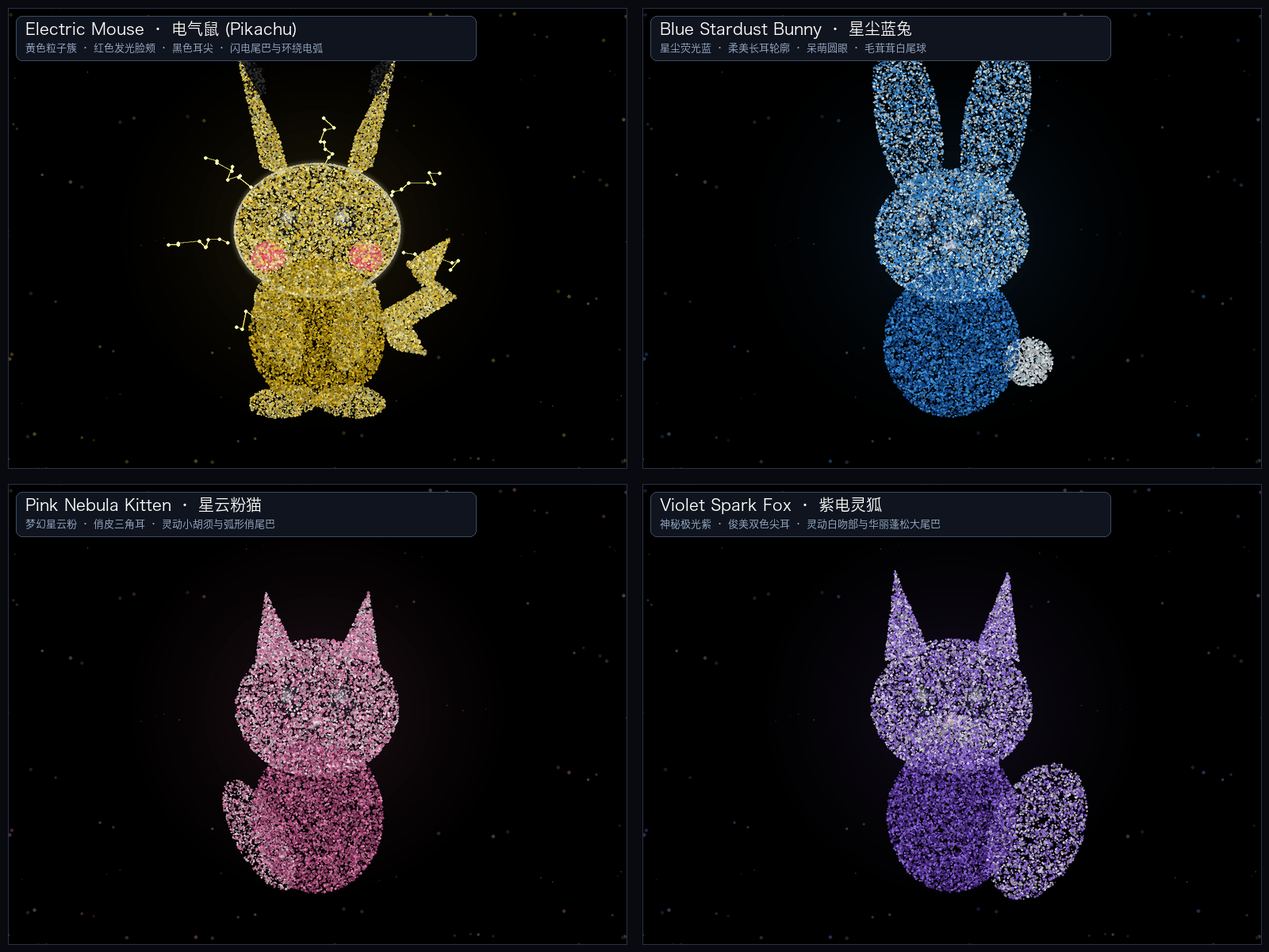
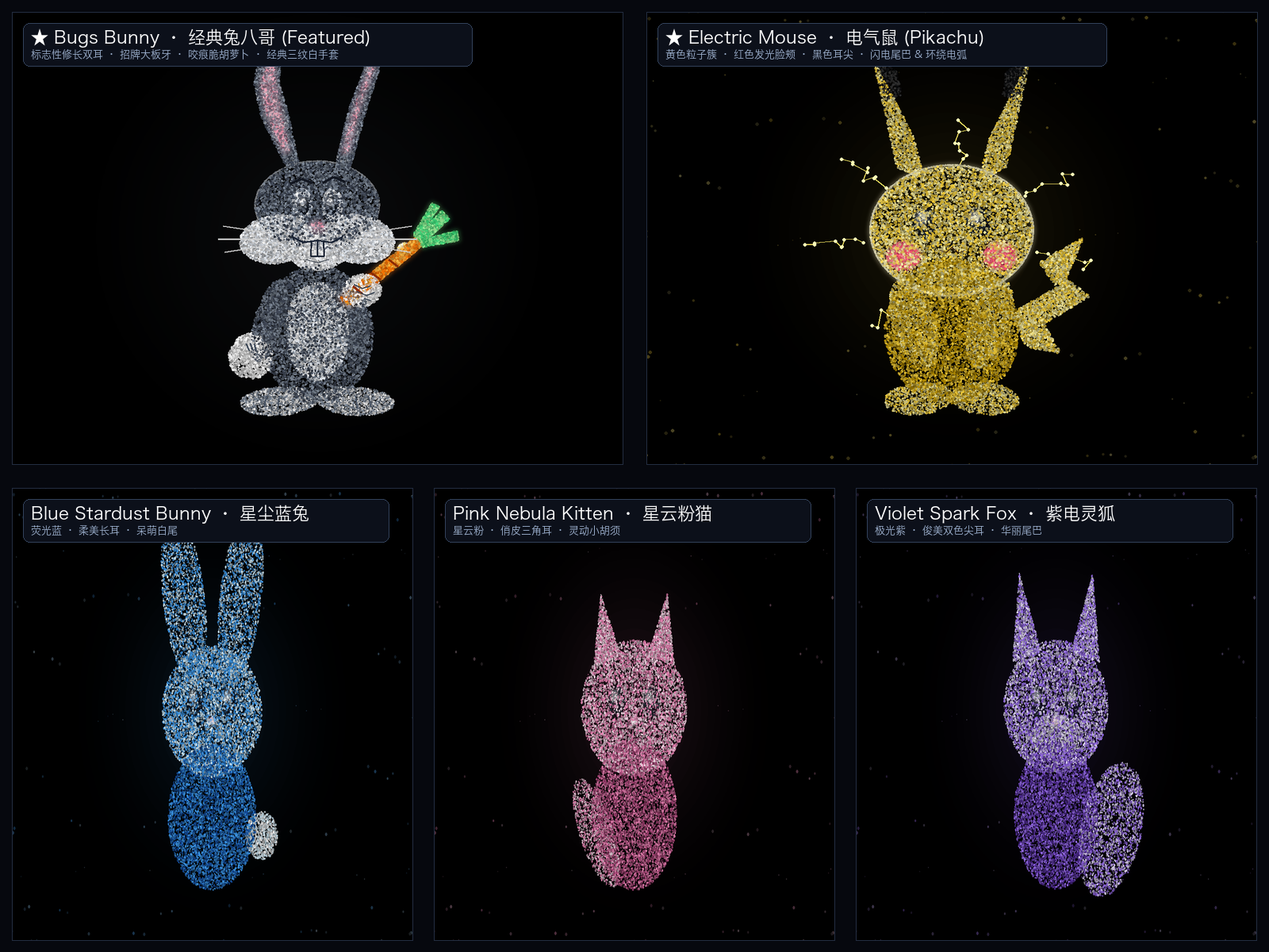
feat(mascot): add Bugs Bunny 3D particle model with signature ears, buck teeth and carrot

diff --git a/particle_mascot_studio.html b/particle_mascot_studio.html
@@ -40,26 +40,151 @@ input[type=range]{width:100%;accent-color:#ffd84a;cursor:pointer}.hint{font-size
 }
 </style>
 </head>
-<body><div id="app"><button id="mobileToggle" class="mobile-toggle-btn">⚙ Controls</button><div class="stage"><canvas id="c" width="1200" height="900"></canvas><div class="badge">PARTICLE MASCOT / HTML CANVAS</div><div class="title"><h1 id="sceneName">Electric Mouse</h1><p>拖动倾斜 · 鼠标视差 · 点击触发粒子散开</p></div></div><aside class="panel"><button id="panelClose" class="panel-close-btn">✕ Close</button><div style="margin-bottom:14px; display:flex; justify-content:space-between; align-items:center;"><a href="index.html" style="text-decoration:none; display:inline-flex; align-items:center; gap:6px; padding:7px 12px; background:rgba(255,100,150,0.16); border:1px solid rgba(255,100,150,0.5); color:#ff9ebb; border-radius:8px; font-weight:600; font-size:12px; transition:all 0.2s;" onmouseover="this.style.background='rgba(255,100,150,0.3)'" onmouseout="this.style.background='rgba(255,100,150,0.16)'">🌹 3D Flower Lab</a><span style="font-size:11px; color:#8d99af;">Hub Portal</span></div><h2>Particle Mascot Studio</h2><div class="group"><div class="label">角色预设</div><div class="grid"><button class="preset active" data-preset="pikachu">电气鼠</button><button class="preset" data-preset="bunny">蓝色兔子</button><button class="preset" data-preset="kitten">粉色小猫</button><button class="preset" data-preset="fox">紫色小狐</button></div></div><div class="group"><div class="label">动态参数</div><div class="row"><span>粒子密度</span><input id="density" type="range" min="0.5" max="1.7" step="0.05" value="1.05"><span class="val" id="densityV">1.05</span></div><div class="row"><span>漂移强度</span><input id="flow" type="range" min="0" max="2" step="0.05" value="0.65"><span class="val" id="flowV">0.65</span></div><div class="row"><span>光晕</span><input id="glow" type="range" min="0" max="2.5" step="0.05" value="1.25"><span class="val" id="glowV">1.25</span></div><div class="row"><span>电弧/能量</span><input id="energy" type="range" min="0" max="2" step="0.05" value="1.15"><span class="val" id="energyV">1.15</span></div><div class="row"><span>呼吸速度</span><input id="speed" type="range" min="0.2" max="2" step="0.05" value="0.75"><span class="val" id="speedV">0.75</span></div></div><div class="group"><div class="label">画面</div><div class="actions"><button id="burst">粒子散开一次</button><button id="reset">恢复视角</button><button id="pause">暂停</button><button id="clean">纯画面</button><button class="wide" id="save">保存当前 PNG</button></div></div><div class="group"><div class="label">说明</div><div class="hint">纯 HTML + Canvas 代码生成，不依赖图片素材。电气鼠预设使用黄色粒子、红色脸颊、黑色耳尖、闪电尾巴和电弧效果。可继续扩展你自己的原创 IP。</div></div></aside></div>
+<body><div id="app"><button id="mobileToggle" class="mobile-toggle-btn">⚙ Controls</button><div class="stage"><canvas id="c" width="1200" height="900"></canvas><div class="badge">PARTICLE MASCOT / HTML CANVAS</div><div class="title"><h1 id="sceneName">Bugs Bunny · 经典兔八哥</h1><p>拖动倾斜 · 鼠标视差 · 点击触发粒子散开</p></div></div><aside class="panel"><button id="panelClose" class="panel-close-btn">✕ Close</button><div style="margin-bottom:14px; display:flex; justify-content:space-between; align-items:center;"><a href="index.html" style="text-decoration:none; display:inline-flex; align-items:center; gap:6px; padding:7px 12px; background:rgba(255,100,150,0.16); border:1px solid rgba(255,100,150,0.5); color:#ff9ebb; border-radius:8px; font-weight:600; font-size:12px; transition:all 0.2s;" onmouseover="this.style.background='rgba(255,100,150,0.3)'" onmouseout="this.style.background='rgba(255,100,150,0.16)'">🌹 3D Flower Lab</a><span style="font-size:11px; color:#8d99af;">Hub Portal</span></div><h2>Particle Mascot Studio</h2><div class="group"><div class="label">角色预设</div><div class="grid"><button class="preset active wide" data-preset="bugs" style="background:rgba(255,106,0,0.16); border-color:rgba(255,106,0,0.55); font-weight:600; color:#ffb38a;">🥕 兔八哥 (Bugs Bunny)</button><button class="preset" data-preset="pikachu">⚡ 电气鼠</button><button class="preset" data-preset="bunny">🐰 蓝色兔子</button><button class="preset" data-preset="kitten">🐱 粉色小猫</button><button class="preset" data-preset="fox">🦊 紫色小狐</button></div></div><div class="group"><div class="label">动态参数</div><div class="row"><span>粒子密度</span><input id="density" type="range" min="0.5" max="1.7" step="0.05" value="1.05"><span class="val" id="densityV">1.05</span></div><div class="row"><span>漂移强度</span><input id="flow" type="range" min="0" max="2" step="0.05" value="0.65"><span class="val" id="flowV">0.65</span></div><div class="row"><span>光晕</span><input id="glow" type="range" min="0" max="2.5" step="0.05" value="1.25"><span class="val" id="glowV">1.25</span></div><div class="row"><span>电弧/能量</span><input id="energy" type="range" min="0" max="2" step="0.05" value="1.15"><span class="val" id="energyV">1.15</span></div><div class="row"><span>呼吸速度</span><input id="speed" type="range" min="0.2" max="2" step="0.05" value="0.75"><span class="val" id="speedV">0.75</span></div></div><div class="group"><div class="label">画面</div><div class="actions"><button id="burst">粒子散开一次</button><button id="reset">恢复视角</button><button id="pause">暂停</button><button id="clean">纯画面</button><button class="wide" id="save">保存当前 PNG</button></div></div><div class="group"><div class="label">说明</div><div class="hint">纯 HTML + Canvas 代码生成，不依赖任何外部图片与 3D 库。内置经典兔八哥（长双耳、大板牙、脆胡萝卜、白手套）、皮卡丘、星尘蓝兔、星云粉猫与紫电灵狐。完全支持 3D 视差交互与移动端自适应。</div></div></aside></div>
 <script>
 const canvas=document.getElementById('c'),ctx=canvas.getContext('2d',{alpha:false}),W=canvas.width,H=canvas.height;
-const state={preset:'pikachu',density:1.05,flow:.65,glow:1.25,energy:1.15,speed:.75,paused:false,clean:false,tiltX:0,tiltY:0,targetTiltX:0,targetTiltY:0,burst:0,t:0};
-const palettes={pikachu:{main:'#ffd83d',light:'#fff4a3',dark:'#c99d00',accent:'#ff4058',eye:'#0f1012',edge:'#fff7c8'},bunny:{main:'#42a6ff',light:'#d8f2ff',dark:'#1759b4',accent:'#9ceaff',eye:'#061529',edge:'#dff7ff'},kitten:{main:'#ff8fc4',light:'#ffe0ef',dark:'#b94a82',accent:'#ffc46b',eye:'#28101f',edge:'#fff0f6'},fox:{main:'#a476ff',light:'#eadfff',dark:'#5c32aa',accent:'#ff8ad8',eye:'#170d2b',edge:'#f5edff'}};
-const names={pikachu:'Electric Mouse',bunny:'Blue Stardust Bunny',kitten:'Pink Nebula Kitten',fox:'Violet Spark Fox'};
+const state={preset:'bugs',density:1.05,flow:.65,glow:1.25,energy:1.15,speed:.75,paused:false,clean:false,tiltX:0,tiltY:0,targetTiltX:0,targetTiltY:0,burst:0,t:0};
+const palettes={
+  bugs:{main:'#8c98a8',light:'#ffffff',dark:'#4a5364',pink:'#ff8da9',pinkLight:'#ffbccc',accent:'#ff6200',eye:'#0e131d',edge:'#e2e8f0',carrot:'#ff6200',carrotLight:'#ffa536',carrotLeaf:'#2cd066',carrotLeafLight:'#8df48b'},
+  pikachu:{main:'#ffd83d',light:'#fff4a3',dark:'#c99d00',accent:'#ff4058',eye:'#0f1012',edge:'#fff7c8'},
+  bunny:{main:'#42a6ff',light:'#d8f2ff',dark:'#1759b4',accent:'#9ceaff',eye:'#061529',edge:'#dff7ff'},
+  kitten:{main:'#ff8fc4',light:'#ffe0ef',dark:'#b94a82',accent:'#ffc46b',eye:'#28101f',edge:'#fff0f6'},
+  fox:{main:'#a476ff',light:'#eadfff',dark:'#5c32aa',accent:'#ff8ad8',eye:'#170d2b',edge:'#f5edff'}
+};
+const names={
+  bugs:'Bugs Bunny · 经典兔八哥 ("What\'s up, Doc?")',
+  pikachu:'Electric Mouse · 电气鼠',
+  bunny:'Blue Stardust Bunny · 星尘蓝兔',
+  kitten:'Pink Nebula Kitten · 星云粉猫',
+  fox:'Violet Spark Fox · 紫电灵狐'
+};
 function rgb(h){h=h.replace('#','');if(h.length===3)h=h.split('').map(x=>x+x).join('');let n=parseInt(h,16);return{r:(n>>16)&255,g:(n>>8)&255,b:n&255}}function mix(a,b,t){a=rgb(a);b=rgb(b);return`rgb(${Math.round(a.r+(b.r-a.r)*t)},${Math.round(a.g+(b.g-a.g)*t)},${Math.round(a.b+(b.b-a.b)*t)})`}function rnd(a,b){return a+Math.random()*(b-a)}
 function ellipsePoint(cx,cy,rx,ry,rot=0){let a=Math.random()*Math.PI*2,r=Math.sqrt(Math.random()),x=Math.cos(a)*rx*r,y=Math.sin(a)*ry*r,c=Math.cos(rot),s=Math.sin(rot);return[cx+x*c-y*s,cy+x*s+y*c]}function ellipseEdge(cx,cy,rx,ry,rot=0){let a=Math.random()*Math.PI*2,x=Math.cos(a)*rx,y=Math.sin(a)*ry,c=Math.cos(rot),s=Math.sin(rot);return[cx+x*c-y*s,cy+x*s+y*c]}
 function polyContains(p,poly){let x=p[0],y=p[1],inside=false;for(let i=0,j=poly.length-1;i<poly.length;j=i++){let xi=poly[i][0],yi=poly[i][1],xj=poly[j][0],yj=poly[j][1],hit=((yi>y)!=(yj>y))&&(x<(xj-xi)*(y-yi)/(yj-yi+1e-9)+xi);if(hit)inside=!inside}return inside}function polyPoint(poly){let minX=Infinity,maxX=-Infinity,minY=Infinity,maxY=-Infinity;for(const[x,y]of poly){minX=Math.min(minX,x);maxX=Math.max(maxX,x);minY=Math.min(minY,y);maxY=Math.max(maxY,y)}for(let k=0;k<500;k++){let p=[rnd(minX,maxX),rnd(minY,maxY)];if(polyContains(p,poly))return p}return poly[0]}
 let particles=[],lines=[];function addCloud(count,sampler,a,b,alpha=.9,zr=[-1,1],size=[.7,2],tag='body'){count=Math.floor(count*state.density);for(let i=0;i<count;i++){let[x,y]=sampler();particles.push({x,y,z:rnd(zr[0],zr[1]),ox:x,oy:y,size:rnd(size[0],size[1]),phase:rnd(0,6.28),color:Math.random()<.5?a:b,alpha:rnd(alpha*.55,alpha),tag})}}function addEdge(count,sampler,color,alpha=.95,size=[.7,1.7],tag='edge'){count=Math.floor(count*state.density);for(let i=0;i<count;i++){let[x,y]=sampler();particles.push({x,y,z:rnd(-.4,.4),ox:x,oy:y,size:rnd(size[0],size[1]),phase:rnd(0,6.28),color,alpha:rnd(alpha*.7,alpha),tag})}}function addLine(points,color,width=1,alpha=.6){lines.push({points,color,width,alpha})}
 function face(p,kind){addCloud(620,()=>ellipsePoint(548,425,24,31),p.eye,'#27303a',.98,[-.1,.1],[.9,1.8],'eye');addCloud(620,()=>ellipsePoint(652,425,24,31),p.eye,'#27303a',.98,[-.1,.1],[.9,1.8],'eye');addCloud(130,()=>ellipsePoint(541,414,7,9),'#fff','#fff',1,[0,0],[1,2],'spark');addCloud(130,()=>ellipsePoint(645,414,7,9),'#fff','#fff',1,[0,0],[1,2],'spark');addCloud(100,()=>ellipsePoint(600,464,8,6),kind==='kitten'?'#ff6ea8':'#ffc4d8','#fff',.95,[0,0],[1,1.7],'nose');addLine([[600,471],[588,480],[577,477]],p.edge,1,.5);addLine([[600,471],[612,480],[623,477]],p.edge,1,.5)}
+function buildBugsBunny(p){
+  // 1. Ears (标志性长耳：左耳俏皮微折，右耳挺拔，带粉嫩内耳)
+  const earL = [[540,310],[490,210],[475,140],[490,80],[515,65],[530,85],[525,140],[545,210],[565,310]];
+  addCloud(2800, ()=>polyPoint(earL), p.main, p.dark, .94, [-.4,.5], [.7,1.9], 'earL');
+  const earInnerL = [[535,280],[500,205],[490,145],[502,100],[515,100],[518,145],[530,205],[545,280]];
+  addCloud(1600, ()=>polyPoint(earInnerL), p.pink, p.pinkLight, .98, [-.2,.3], [.6,1.8], 'earInnerL');
+  addEdge(500, ()=>polyPoint(earL), p.edge, .75, [.6,1.4], 'earEdge');
+
+  const earR = [[635,310],[660,200],[690,120],[705,55],[725,60],[720,120],[695,200],[665,310]];
+  addCloud(2800, ()=>polyPoint(earR), p.main, p.dark, .94, [-.4,.5], [.7,1.9], 'earR');
+  const earInnerR = [[650,280],[672,195],[698,125],[710,85],[715,95],[702,135],[680,200],[660,280]];
+  addCloud(1600, ()=>polyPoint(earInnerR), p.pink, p.pinkLight, .98, [-.2,.3], [.6,1.8], 'earInnerR');
+  addEdge(500, ()=>polyPoint(earR), p.edge, .75, [.6,1.4], 'earEdge');
+
+  // 2. Head dome
+  addCloud(5000, ()=>ellipsePoint(600,385,122,88), p.main, p.dark, .94, [-1,1.1], [.6,2.1], 'head');
+  addEdge(800, ()=>ellipseEdge(600,385,122,88), p.edge, .6, [.6,1.3], 'headEdge');
+
+  // 3. Wide Muzzle & Puffy White Cheeks
+  addCloud(4200, ()=>ellipsePoint(520,452,72,48,-0.15), p.light, '#edf3fb', .98, [-.3,.8], [.65,2.0], 'cheekL');
+  addCloud(4200, ()=>ellipsePoint(680,452,72,48,0.15), p.light, '#edf3fb', .98, [-.3,.8], [.65,2.0], 'cheekR');
+  addCloud(2800, ()=>ellipsePoint(600,474,58,40), p.light, '#f5f8fd', .98, [-.2,.8], [.65,2.0], 'muzzle');
+
+  // 4. Torso, White Belly & Fluffy Tail
+  addCloud(6000, ()=>ellipsePoint(600,642,110,138), p.main, p.dark, .9, [-1.2,1.2], [.6,2.0], 'body');
+  addCloud(4000, ()=>ellipsePoint(600,636,62,98), p.light, '#ebf2fb', .95, [-.4,.9], [.6,1.9], 'belly');
+  addCloud(1000, ()=>ellipsePoint(470,688,44,42), p.light, '#ffffff', .96, [-.3,.4], [.7,2.1], 'tail');
+
+  // 5. Feet
+  addCloud(1400, ()=>ellipsePoint(525,775,76,28,-0.06), p.light, p.main, .92, [-.4,.5], [.7,1.8], 'footL');
+  addCloud(1400, ()=>ellipsePoint(675,775,76,28,0.06), p.light, p.main, .92, [-.4,.5], [.7,1.8], 'footR');
+  addLine([[500,764],[495,786]], '#64748b', 1.6, .7);
+  addLine([[525,764],[522,788]], '#64748b', 1.6, .7);
+  addLine([[675,764],[678,788]], '#64748b', 1.6, .7);
+  addLine([[700,764],[705,786]], '#64748b', 1.6, .7);
+
+  // 6. Left Arm & Glove with 3 stitches
+  addCloud(1500, ()=>ellipsePoint(505,615,28,85,0.28), p.main, p.dark, .9, [-.5,.6], [.7,1.8], 'armL');
+  addCloud(1000, ()=>ellipsePoint(468,668,32,28,-0.1), p.light, '#ffffff', .98, [-.3,.5], [.7,2.0], 'gloveL');
+  addLine([[460,660],[466,674]], '#475569', 1.5, .8);
+  addLine([[468,659],[473,673]], '#475569', 1.5, .8);
+  addLine([[476,661],[480,675]], '#475569', 1.5, .8);
+
+  // 7. Carrot & Nibbled Bite
+  const carrotPoly = [[645,570],[662,584],[780,488],[805,465],[792,450],[766,470]];
+  addCloud(3000, ()=>polyPoint(carrotPoly), p.carrot, p.carrotLight, .99, [-.2,.7], [.75,2.2], 'carrot');
+  addLine([[740,492],[758,506]], '#9e3000', 2.0, .9);
+  addLine([[705,518],[724,532]], '#9e3000', 2.0, .9);
+  addLine([[670,545],[688,560]], '#9e3000', 2.0, .9);
+  addCloud(220, ()=>ellipsePoint(768,470,11,8,-0.6), '#ffe17d', '#ffffff', 1.0, [0,.5], [1.0,2.2], 'bite');
+
+  // Leafy Greens
+  const leaf1 = [[792,450],[845,395],[860,412],[805,465]];
+  const leaf2 = [[800,455],[875,435],[878,455],[808,468]];
+  const leaf3 = [[788,446],[825,380],[840,388],[796,452]];
+  addCloud(900, ()=>polyPoint(leaf1), p.carrotLeaf, p.carrotLeafLight, .96, [-.2,.5], [.6,1.8], 'carrotLeaf');
+  addCloud(900, ()=>polyPoint(leaf2), p.carrotLeaf, p.carrotLeafLight, .96, [-.2,.5], [.6,1.8], 'carrotLeaf');
+  addCloud(800, ()=>polyPoint(leaf3), p.carrotLeaf, p.carrotLeafLight, .96, [-.2,.5], [.6,1.8], 'carrotLeaf');
+
+  // Right Arm & Glove holding carrot
+  addCloud(1600, ()=>ellipsePoint(665,605,32,75,-0.28), p.main, p.dark, .9, [-.5,.6], [.7,1.8], 'armR');
+  addCloud(1300, ()=>ellipsePoint(688,555,38,32,-0.25), p.light, '#ffffff', .99, [.2,.8], [.7,2.1], 'gloveR');
+  addLine([[672,542],[688,550],[704,545]], '#475569', 1.8, .8);
+  addLine([[678,556],[696,564],[712,558]], '#475569', 1.8, .8);
+  addLine([[692,570],[704,574]], '#475569', 1.8, .8);
+
+  // 8. Eyes & Eyebrows
+  function eyeWhiteSampler(cx,cy,rx,ry,rInner=0.58){
+    let a=Math.random()*Math.PI*2, r=Math.sqrt(rInner**2+Math.random()*(1-rInner**2));
+    return [cx+Math.cos(a)*rx*r, cy+Math.sin(a)*ry*r];
+  }
+  addCloud(900, ()=>eyeWhiteSampler(570,384,19,32), '#ffffff', '#edf4ff', 1.0, [.1,.3], [.8,1.9], 'eyeWhiteL');
+  addCloud(900, ()=>eyeWhiteSampler(630,384,19,32), '#ffffff', '#edf4ff', 1.0, [.1,.3], [.8,1.9], 'eyeWhiteR');
+  addEdge(350, ()=>ellipseEdge(570,384,19,32), '#e2e8f0', .9, [.6,1.4], 'eyeBorder');
+  addEdge(350, ()=>ellipseEdge(630,384,19,32), '#e2e8f0', .9, [.6,1.4], 'eyeBorder');
+
+  addCloud(400, ()=>ellipsePoint(573,386,10,17), '#161d2a', '#0b1018', 1.0, [.2,.4], [.8,1.8], 'pupilL');
+  addCloud(400, ()=>ellipsePoint(627,386,10,17), '#161d2a', '#0b1018', 1.0, [.2,.4], [.8,1.8], 'pupilR');
+  addEdge(200, ()=>ellipseEdge(573,386,10,17), '#20293a', .9, [.6,1.3], 'pupilEdge');
+  addEdge(200, ()=>ellipseEdge(627,386,10,17), '#20293a', .9, [.6,1.3], 'pupilEdge');
+
+  addCloud(120, ()=>ellipsePoint(571,378,4,6), '#ffffff', '#ffffff', 1.0, [.3,.5], [1.2,2.2], 'spark');
+  addCloud(120, ()=>ellipsePoint(625,378,4,6), '#ffffff', '#ffffff', 1.0, [.3,.5], [1.2,2.2], 'spark');
+
+  addLine([[546,342],[568,332],[590,340]], '#141a24', 2.8, .95);
+  addLine([[610,340],[632,328],[654,338]], '#141a24', 2.8, .95);
+
+  // 9. Nose, Smile, and Buck Teeth
+  addCloud(320, ()=>ellipsePoint(600,428,14,10), p.pink, '#ffb3c7', 1.0, [0,.2], [.9,1.8], 'nose');
+  addLine([[552,448],[572,458],[600,454],[628,458],[648,448]], '#1e293b', 2.2, .9);
+  addLine([[550,444],[554,454]], '#1e293b', 1.8, .85);
+  addLine([[650,444],[646,454]], '#1e293b', 1.8, .85);
+
+  const toothL = [[588,456],[599,456],[598,486],[587,486]];
+  const toothR = [[601,456],[612,456],[613,486],[602,486]];
+  addCloud(700, ()=>polyPoint(toothL), '#ffffff', '#ffffff', 1.0, [.1,.3], [.8,2.0], 'toothL');
+  addCloud(700, ()=>polyPoint(toothR), '#ffffff', '#ffffff', 1.0, [.1,.3], [.8,2.0], 'toothR');
+  addLine([[588,456],[587,486],[613,486],[612,456]], '#1e293b', 1.8, .85);
+  addLine([[600,456],[600,486]], '#1e293b', 1.8, .9);
+  addLine([[578,492],[600,498],[622,492]], '#475569', 1.4, .7);
+
+  // 10. Freckles & Whiskers
+  [[512,440],[506,452],[510,464]].forEach(([fx,fy])=>addCloud(40, ()=>ellipsePoint(fx,fy,3,3), '#000000', '#000000', 1.0, [0,0], [1,1.6], 'freckle'));
+  [[688,440],[694,452],[690,464]].forEach(([fx,fy])=>addCloud(40, ()=>ellipsePoint(fx,fy,3,3), '#000000', '#000000', 1.0, [0,0], [1,1.6], 'freckle'));
+
+  addLine([[506,440],[415,426]], '#ffffff', 1.6, .8);
+  addLine([[500,452],[405,452]], '#ffffff', 1.6, .8);
+  addLine([[504,464],[418,478]], '#ffffff', 1.6, .8);
+
+  addLine([[694,440],[785,426]], '#ffffff', 1.6, .8);
+  addLine([[700,452],[795,452]], '#ffffff', 1.6, .8);
+  addLine([[696,464],[782,478]], '#ffffff', 1.6, .8);
+}
 function buildPikachu(p){const cx=600,cy=435,earL=[[492,310],[444,88],[525,248],[548,335]],earR=[[708,310],[756,88],[675,248],[652,335]],tipL=[[444,88],[470,178],[501,166],[492,116]],tipR=[[756,88],[730,178],[699,166],[708,116]];addCloud(1300,()=>polyPoint(earL),p.main,p.light,.92,[-.3,.4],[.7,1.8],'ear');addCloud(1300,()=>polyPoint(earR),p.main,p.light,.92,[-.3,.4],[.7,1.8],'ear');addCloud(460,()=>polyPoint(tipL),p.eye,'#343434',.95,[-.2,.3],[.8,1.8],'earTip');addCloud(460,()=>polyPoint(tipR),p.eye,'#343434',.95,[-.2,.3],[.8,1.8],'earTip');addCloud(7200,()=>ellipsePoint(cx,cy,160,130),p.main,p.light,.95,[-1,1.2],[.6,2.2],'head');addEdge(1900,()=>ellipseEdge(cx,cy,160,130),p.edge,.8,[.6,1.4],'headEdge');addCloud(6500,()=>ellipsePoint(cx,635,132,145),p.main,p.dark,.9,[-1.2,1.3],[.6,2.1],'body');addCloud(1500,()=>ellipsePoint(525,620,42,92,-.28),p.main,p.light,.9,[-.5,.6],[.7,1.8],'arm');addCloud(1500,()=>ellipsePoint(675,620,42,92,.28),p.main,p.light,.9,[-.5,.6],[.7,1.8],'arm');addCloud(1000,()=>ellipsePoint(535,770,67,32,-.08),p.main,p.light,.9,[-.4,.4],[.7,1.7],'foot');addCloud(1000,()=>ellipsePoint(665,770,67,32,.08),p.main,p.light,.9,[-.4,.4],[.7,1.7],'foot');addCloud(650,()=>ellipsePoint(548,420,23,31),p.eye,'#27303a',.98,[-.1,.1],[.9,1.8],'eye');addCloud(650,()=>ellipsePoint(652,420,23,31),p.eye,'#27303a',.98,[-.1,.1],[.9,1.8],'eye');addCloud(130,()=>ellipsePoint(541,410,7,9),'#fff','#fff',1,[0,0],[1,2.2],'spark');addCloud(130,()=>ellipsePoint(645,410,7,9),'#fff','#fff',1,[0,0],[1,2.2],'spark');addCloud(650,()=>ellipsePoint(505,486,32,28),p.accent,'#ff7180',.98,[-.1,.1],[.8,2],'cheek');addCloud(650,()=>ellipsePoint(695,486,32,28),p.accent,'#ff7180',.98,[-.1,.1],[.8,2],'cheek');addCloud(90,()=>ellipsePoint(600,462,7,5),p.eye,p.eye,1,[0,0],[1,1.8],'nose');addLine([[600,468],[588,479],[576,474]],'#5d3824',1.2,.7);addLine([[600,468],[612,479],[624,474]],'#5d3824',1.2,.7);const tail=[[717,600],[805,548],[772,499],[860,448],[825,530],[872,566],[782,621],[815,680],[746,668]];addCloud(2800,()=>polyPoint(tail),p.main,p.light,.95,[-.6,.8],[.65,2],'tail');}
 function buildBunny(p){addCloud(6000,()=>ellipsePoint(600,445,150,130),p.main,p.light,.93,[-1,1.1],[.6,2.1],'head');addCloud(2400,()=>ellipsePoint(515,220,62,170,-.18),p.main,p.light,.9,[-.5,.6],[.7,1.9],'ear');addCloud(2400,()=>ellipsePoint(685,220,62,170,.18),p.main,p.light,.9,[-.5,.6],[.7,1.9],'ear');addCloud(6200,()=>ellipsePoint(600,655,132,145),p.main,p.dark,.9,[-1,1.2],[.6,2],'body');addCloud(900,()=>ellipsePoint(748,692,48,48),p.light,'#fff',.92,[-.3,.4],[.8,2],'tail');face(p,'bunny')}
 function buildKitten(p){const a=[[480,348],[500,210],[560,335]],b=[[720,348],[700,210],[640,335]];addCloud(1100,()=>polyPoint(a),p.main,p.light,.95,[-.4,.4],[.7,1.9],'ear');addCloud(1100,()=>polyPoint(b),p.main,p.light,.95,[-.4,.4],[.7,1.9],'ear');addCloud(6500,()=>ellipsePoint(600,438,158,135),p.main,p.light,.93,[-1,1.1],[.6,2.1],'head');addCloud(6100,()=>ellipsePoint(600,650,128,150),p.main,p.dark,.88,[-1,1.2],[.6,2],'body');addCloud(1500,()=>ellipsePoint(487,687,47,120,-.5),p.main,p.light,.88,[-.5,.6],[.7,1.7],'tail');face(p,'kitten')}
 function buildFox(p){const a=[[470,346],[490,170],[555,326]],b=[[730,346],[710,170],[645,326]];addCloud(1300,()=>polyPoint(a),p.main,p.light,.95,[-.4,.4],[.7,1.9],'ear');addCloud(1300,()=>polyPoint(b),p.main,p.light,.95,[-.4,.4],[.7,1.9],'ear');addCloud(6200,()=>ellipsePoint(600,435,156,132),p.main,p.light,.93,[-1,1.1],[.6,2.1],'head');addCloud(6000,()=>ellipsePoint(600,650,125,148),p.main,p.dark,.9,[-1,1.2],[.6,2],'body');addCloud(2700,()=>ellipsePoint(765,680,88,140,.4),p.main,p.light,.9,[-.7,.8],[.7,2],'tail');addCloud(900,()=>ellipsePoint(600,494,78,42),p.light,'#fff',.9,[-.2,.2],[.7,1.7],'muzzle');face(p,'fox')}
-function build(){particles=[];lines=[];let p=palettes[state.preset];({pikachu:buildPikachu,bunny:buildBunny,kitten:buildKitten,fox:buildFox}[state.preset])(p);document.getElementById('sceneName').textContent=names[state.preset]}
+function build(){particles=[];lines=[];let p=palettes[state.preset];({bugs:buildBugsBunny,pikachu:buildPikachu,bunny:buildBunny,kitten:buildKitten,fox:buildFox}[state.preset])(p);document.getElementById('sceneName').textContent=names[state.preset]}
 function project(pt,now){let x=pt.x-600,y=pt.y-450,z=pt.z*38,ay=state.tiltY*.65,ax=state.tiltX*.45,x1=x*Math.cos(ay)+z*Math.sin(ay),z1=-x*Math.sin(ay)+z*Math.cos(ay),y1=y*Math.cos(ax)-z1*Math.sin(ax);z1=y*Math.sin(ax)+z1*Math.cos(ax);let s=1+z1/1800,pulse=1+Math.sin(now*.0013*state.speed)*.007;return[600+x1*s*pulse,450+y1*s*pulse,s]}
 function bg(){ctx.fillStyle='#000';ctx.fillRect(0,0,W,H);let p=rgb(palettes[state.preset].main),g=ctx.createRadialGradient(600,440,40,600,440,500);g.addColorStop(0,`rgba(${p.r},${p.g},${p.b},.05)`);g.addColorStop(1,'rgba(0,0,0,0)');ctx.fillStyle=g;ctx.fillRect(0,0,W,H)}
-function energy(now){let p=palettes[state.preset],e=state.energy;if(e<.01)return;ctx.save();ctx.globalCompositeOperation='lighter';let branches=state.preset==='pikachu'?7:4;for(let b=0;b<branches;b++){if(Math.random()>.32)continue;let a=b/branches*Math.PI*2+Math.sin(now*.001+b)*.4,r0=state.preset==='pikachu'?175:160,r1=r0+rnd(55,150)*e,x0=600+Math.cos(a)*r0,y0=440+Math.sin(a)*r0*.75;ctx.beginPath();ctx.moveTo(x0,y0);for(let i=1;i<=8;i++){let t=i/8;ctx.lineTo(600+Math.cos(a)*(r0+(r1-r0)*t)+rnd(-18,18)*e,440+Math.sin(a)*(r0+(r1-r0)*t)*.75+rnd(-16,16)*e)}ctx.strokeStyle=state.preset==='pikachu'?'rgba(255,232,74,.55)':mix(p.main,p.light,.7);ctx.globalAlpha=.15+.25*e;ctx.lineWidth=1;ctx.shadowBlur=18*e;ctx.shadowColor=p.main;ctx.stroke()}ctx.restore()}
-function draw(now){if(!state.paused)state.t+=1/60;state.tiltX+=(state.targetTiltX-state.tiltX)*.055;state.tiltY+=(state.targetTiltY-state.tiltY)*.055;state.burst*=.965;bg();let flow=state.flow,glow=state.glow,burst=state.burst,list=particles.map(pt=>{let ang=Math.atan2(pt.oy-450,pt.ox-600),r=Math.hypot(pt.ox-600,pt.oy-450);pt.x=pt.ox+Math.sin(now*.0017*state.speed+pt.phase)*flow*2.2+Math.cos(ang)*burst*(10+r*.18);pt.y=pt.oy+Math.cos(now*.00145*state.speed+pt.phase)*flow*2.2+Math.sin(ang)*burst*(10+r*.18);return[pt,project(pt,now)]}).sort((a,b)=>a[1][2]-b[1][2]);ctx.save();ctx.globalCompositeOperation='lighter';for(const[pt,pr]of list){let[x,y,s]=pr,a=pt.alpha*(.72+.28*Math.sin(now*.002*state.speed+pt.phase));if(glow>.05&&(pt.tag==='edge'||pt.tag==='spark'||Math.random()<.035)){ctx.shadowBlur=8+12*glow;ctx.shadowColor=pt.color}else ctx.shadowBlur=0;ctx.globalAlpha=a;ctx.fillStyle=pt.color;ctx.beginPath();ctx.arc(x,y,pt.size*s,0,6.28);ctx.fill()}ctx.restore();ctx.save();ctx.globalCompositeOperation='lighter';for(const l of lines){ctx.beginPath();l.points.forEach((q,i)=>{let[x,y]=project({x:q[0],y:q[1],z:0},now);i?ctx.lineTo(x,y):ctx.moveTo(x,y)});ctx.strokeStyle=l.color;ctx.globalAlpha=l.alpha;ctx.lineWidth=l.width;ctx.shadowBlur=6*glow;ctx.shadowColor=l.color;ctx.stroke()}ctx.restore();energy(now);ctx.save();ctx.globalCompositeOperation='lighter';let p=palettes[state.preset];for(let i=0;i<110;i++){let a=i*12.9898,x=(Math.sin(a*2.17+state.t*.05)*.5+.5)*W,y=(Math.sin(a*1.31+state.t*.034)*.5+.5)*H;if(Math.hypot(x-600,y-450)<230)continue;ctx.globalAlpha=.08+.12*Math.sin(a+state.t*.06)**2;ctx.fillStyle=mix(p.main,p.light,(i%10)/10);ctx.beginPath();ctx.arc(x,y,.5+(i%3)*.35,0,6.28);ctx.fill()}ctx.restore();requestAnimationFrame(draw)}
+function energy(now){let p=palettes[state.preset],e=state.energy;if(e<.01)return;ctx.save();ctx.globalCompositeOperation='lighter';if(state.preset==='bugs'){for(let b=0;b<6;b++){if(Math.random()>.42)continue;let a=b/6*Math.PI*2+Math.sin(now*.0012+b)*.4,r0=180,r1=r0+rnd(45,125)*e;ctx.beginPath();ctx.arc(600+Math.cos(a)*r1,440+Math.sin(a)*r1*.8,rnd(1.5,3.2)*e,0,Math.PI*2);ctx.fillStyle=b%2?'#ffa536':'#8df48b';ctx.globalAlpha=.3+.4*e;ctx.shadowBlur=14*e;ctx.shadowColor='#ff6a00';ctx.fill()}}else{let branches=state.preset==='pikachu'?7:4;for(let b=0;b<branches;b++){if(Math.random()>.32)continue;let a=b/branches*Math.PI*2+Math.sin(now*.001+b)*.4,r0=state.preset==='pikachu'?175:160,r1=r0+rnd(55,150)*e,x0=600+Math.cos(a)*r0,y0=440+Math.sin(a)*r0*.75;ctx.beginPath();ctx.moveTo(x0,y0);for(let i=1;i<=8;i++){let t=i/8;ctx.lineTo(600+Math.cos(a)*(r0+(r1-r0)*t)+rnd(-18,18)*e,440+Math.sin(a)*(r0+(r1-r0)*t)*.75+rnd(-16,16)*e)}ctx.strokeStyle=state.preset==='pikachu'?'rgba(255,232,74,.55)':mix(p.main,p.light,.7);ctx.globalAlpha=.15+.25*e;ctx.lineWidth=1;ctx.shadowBlur=18*e;ctx.shadowColor=p.main;ctx.stroke()}}ctx.restore()}
+function draw(now){if(!state.paused)state.t+=1/60;state.tiltX+=(state.targetTiltX-state.tiltX)*.055;state.tiltY+=(state.targetTiltY-state.tiltY)*.055;state.burst*=.965;bg();let flow=state.flow,glow=state.glow,burst=state.burst,list=particles.map(pt=>{let ang=Math.atan2(pt.oy-450,pt.ox-600),r=Math.hypot(pt.ox-600,pt.oy-450);pt.x=pt.ox+Math.sin(now*.0017*state.speed+pt.phase)*flow*2.2+Math.cos(ang)*burst*(10+r*.18);pt.y=pt.oy+Math.cos(now*.00145*state.speed+pt.phase)*flow*2.2+Math.sin(ang)*burst*(10+r*.18);return[pt,project(pt,now)]}).sort((a,b)=>a[1][2]-b[1][2]);ctx.save();ctx.globalCompositeOperation='lighter';for(const[pt,pr]of list){let[x,y,s]=pr,a=pt.alpha*(.72+.28*Math.sin(now*.002*state.speed+pt.phase));if(glow>.05&&(pt.tag==='edge'||pt.tag==='spark'||pt.tag==='nose'||pt.tag==='toothL'||pt.tag==='toothR'||pt.tag==='carrot'||pt.tag==='carrotLeaf'||pt.tag==='bite'||Math.random()<.035)){ctx.shadowBlur=8+12*glow;ctx.shadowColor=pt.color}else ctx.shadowBlur=0;ctx.globalAlpha=a;ctx.fillStyle=pt.color;ctx.beginPath();ctx.arc(x,y,pt.size*s,0,6.28);ctx.fill()}ctx.restore();ctx.save();ctx.globalCompositeOperation='lighter';for(const l of lines){ctx.beginPath();l.points.forEach((q,i)=>{let[x,y]=project({x:q[0],y:q[1],z:0},now);i?ctx.lineTo(x,y):ctx.moveTo(x,y)});ctx.strokeStyle=l.color;ctx.globalAlpha=l.alpha;ctx.lineWidth=l.width;ctx.shadowBlur=6*glow;ctx.shadowColor=l.color;ctx.stroke()}ctx.restore();energy(now);ctx.save();ctx.globalCompositeOperation='lighter';let p=palettes[state.preset];for(let i=0;i<110;i++){let a=i*12.9898,x=(Math.sin(a*2.17+state.t*.05)*.5+.5)*W,y=(Math.sin(a*1.31+state.t*.034)*.5+.5)*H;if(Math.hypot(x-600,y-450)<230)continue;ctx.globalAlpha=.08+.12*Math.sin(a+state.t*.06)**2;ctx.fillStyle=mix(p.main,p.light,(i%10)/10);ctx.beginPath();ctx.arc(x,y,.5+(i%3)*.35,0,6.28);ctx.fill()}ctx.restore();requestAnimationFrame(draw)}
 document.querySelectorAll('.preset').forEach(btn=>btn.onclick=()=>{document.querySelectorAll('.preset').forEach(b=>b.classList.remove('active'));btn.classList.add('active');state.preset=btn.dataset.preset;build()});[['density','density'],['flow','flow'],['glow','glow'],['energy','energy'],['speed','speed']].forEach(([id,key])=>{let el=document.getElementById(id),out=document.getElementById(id+'V');el.oninput=()=>{state[key]=+el.value;out.textContent=(+el.value).toFixed(2);if(key==='density')setTimeout(build,80)}});document.getElementById('burst').onclick=()=>state.burst=1;document.getElementById('reset').onclick=()=>{state.targetTiltX=state.targetTiltY=0;state.burst=0};document.getElementById('pause').onclick=e=>{state.paused=!state.paused;e.target.textContent=state.paused?'继续':'暂停'};document.getElementById('clean').onclick=()=>{state.clean=!state.clean;document.querySelector('.panel').style.display=state.clean?'none':'block';document.querySelector('.badge').style.display=state.clean?'none':'block';document.querySelector('.title').style.display=state.clean?'none':'block'};document.getElementById('save').onclick=()=>{let a=document.createElement('a');a.download=`particle_${state.preset}.png`;a.href=canvas.toDataURL('image/png');a.click()};const panel = document.querySelector('.panel');
 const mobileToggle = document.getElementById('mobileToggle');
 const panelClose = document.getElementById('panelClose');

diff --git a/start_mascot.py b/start_mascot.py
@@ -21,7 +21,7 @@ def main():
     print("💡 交互操作:")
     print("   [鼠标按住拖拽]  3D 视差倾斜")
     print("   [点击画布]      粒子散开爆炸效果")
-    print("   [右侧面板]      随时切换皮卡丘/蓝兔/粉猫/紫狐 4款角色及调节参数")
+    print("   [右侧面板]      随时切换兔八哥/皮卡丘/蓝兔/粉猫/紫狐 5款角色及调节参数")
     print("=" * 60)
 
     if target_bin:

diff --git a/README.md b/README.md
@@ -17,7 +17,7 @@
 
 无需安装任何环境，手机或电脑浏览器点击即开：
 - 🌹 **[3D 粒子花朵实验室 (3D Botanical Lab)](https://hanghao1111222.github.io/romantic/)** — 9 款数学花型 · 16 款璀璨配色 · 源码流 · 3D 线框
-- ⚡ **[粒子萌宠工作室 (Particle Mascot Studio)](https://hanghao1111222.github.io/romantic/particle_mascot_studio.html)** — 皮卡丘/蓝兔/粉猫/紫狐 · 3D 视差拖拽 · 粒子爆炸散开
+- ⚡ **[粒子萌宠工作室 (Particle Mascot Studio)](https://hanghao1111222.github.io/romantic/particle_mascot_studio.html)** — 兔八哥/皮卡丘/蓝兔/粉猫/紫狐 · 3D 视差拖拽 · 粒子爆炸散开
 
 ---
 
@@ -55,7 +55,8 @@
 </p>
 
 纯原生 HTML5 Canvas 2D 高性能几何点阵生成：
-* **4 款经典灵动角色预设:**
+* **5 款经典灵动角色预设:**
+  - 🥕 **Bugs Bunny (兔八哥 / 经典美漫明星):** 标志性修长双耳（左耳俏皮微折）、两颗招牌大板牙、手持咬痕鲜脆大胡萝卜（带绿缨）、经典三道纹白手套与灵动胡须点
   - ⚡ **Electric Mouse (电气鼠 / 皮卡丘):** 闪烁黄色粒子簇、发光红脸颊、黑色耳尖、闪电尾巴与跳跃环绕的动态电弧
   - 🐰 **Blue Stardust Bunny (星尘蓝兔):** 蔚蓝星尘毛质、修长柔美双耳、呆萌圆眼与圆润白尾
   - 🐱 **Pink Nebula Kitten (星云粉猫):** 梦幻粉色星云点阵、俏皮三角耳、灵动小胡须与弧形俏尾巴
